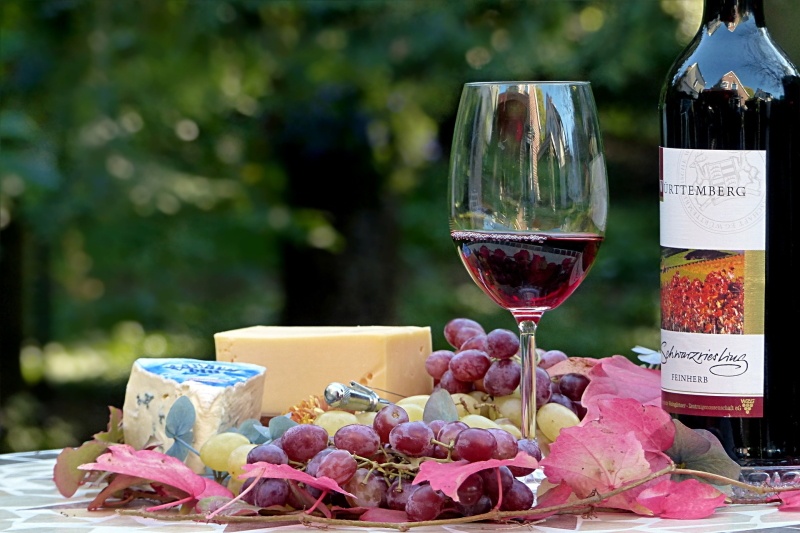
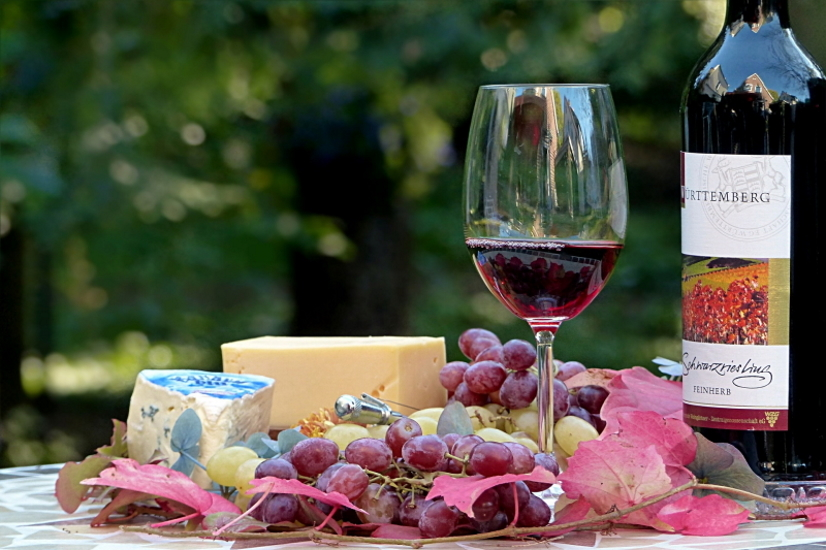
slider adaptive

diff --git a/client/src/Components/SalesSlider/SalesSlider.scss b/client/src/Components/SalesSlider/SalesSlider.scss
@@ -1,6 +1,9 @@
+@mixin mobile_bg {
+    background: rgba(0, 0, 0, 0.24);
+}
+
 .slider__wrapper {
     box-sizing: border-box;
-    min-height: 550px;
     width: 100%;
     overflow-x: hidden;
 }
@@ -10,6 +13,13 @@
     flex-direction: row;
     align-items: center;
     justify-content: space-between;
+    height: 550px;
+
+    &--pic {
+        @media screen and (min-width: 320px) and (max-width: 1200px) {
+            display: none;
+         }
+    }
 }
 
 .salesList__banner {
@@ -19,63 +29,217 @@
     background-size: cover;
     background-position: center;
     background-repeat: no-repeat;
-    min-height: 550px;    
+    min-height: 550px;
 }
-
+// 2 & 4 sales
 .banner__item {
     color: #fff;
     text-align: center;
-    text-shadow: rgb(117, 117, 117) 1px 0 10px;
-    
+    text-shadow: rgb(0, 0, 0) 10px 5px 7px;
+    @media screen and (min-width: 320px) and (max-width: 768px) {
+        @include mobile_bg;
+    }
+
     &--title {
         text-transform: uppercase;
         font-size: 38px;
         line-height: normal;
-        padding: 120px auto;
+        text-align: center;
+        padding: 10px;
+        @media screen and (min-width: 768px) and (max-width: 1200px) {
+            font-size: 22px;
+        }
+        @media screen and (min-width: 540px) and (max-width: 768px) {
+            font-size: 18px;
+        }
+        @media screen and (min-width: 320px) and (max-width: 540px) {
+            font-size: 16px;
+            text-wrap: wrap;
+        }   
     }
     &--text {
         max-width: calc(70% - (80px / 2));
-        margin: 30px auto 40px;
+        margin: 10px auto 40px;
         padding: 10px;
         line-height: 35px;
         font-size: 22px;
+        @media screen and (min-width: 768px) and (max-width: 1200px) {
+            font-size: 18px;
+        }
+        @media screen and (min-width: 540px) and (max-width: 768px) {
+            font-size: 14px;
+            max-width: calc(80% - 10px);
+            padding: 5px;
+            margin: 15px auto;
+        }
+        @media screen and (min-width: 320px) and (max-width: 540px) {
+            font-size: 12px;
+            max-width: calc(90% - 10px);
+            padding: 5px;
+            margin: 10px auto;
+        }
     }
 }
 
 .banner1 {
-    background-image: url('../../../public/pics/sales/wineShelf.jpg');
+    background: bottom no-repeat url("../../../public/pics/sales/whiteWine table.jpg");  
+    background-size: cover;
 }
 .banner2 {
     background-image: url('../../../public/pics/sales/bottles.jpg');
 }
+.adapt-pic-glass {
+    @media screen and (min-width: 320px) and (max-width: 1200px) {
+    background: center no-repeat url('../../../public/pics/sales/redWineGlass.jpg');
+    background-size: cover;
+    }
+}
+.intro-pic-red-wine {
+    @media screen and (min-width: 320px) and (max-width: 1200px) {
+    background: center no-repeat url('../../../public/pics/sales/red\ wine\ table.jpg');
+    background-size: cover;
+    } 
+}
 
 .sales__item {
+    display: flex;
+    justify-content: center;
+    align-items: center;
+    flex-direction: column;
     text-align: center;
     color: #000;
+    &:last-child {
+        padding-bottom: 10px;
+    }
+    @media screen and (min-width: 320px) and (max-width: 850px) {
+        @include mobile_bg;
+    } 
+
     &--title {
         text-transform: uppercase;
         font-size: 22px;
-        line-height: normal;
+        line-height: 30px;
+        margin-top: 15px;
+        @media screen and (min-width: 850px) and (max-width: 1200px) {
+            color: #fff;
+            font-size: 18px;
+        }    
+        @media screen and (min-width: 320px) and (max-width: 850px) {
+            font-size: 16px;
+            color: #fff;
+        }
     }
     &--text {
-        max-width: calc(80% - (50px / 2));
-        margin: 25px auto 40px;
+        margin: 0 50px 35px;
         padding: 10px;
-        line-height: 30px;
+        line-height: 35px;
         font-size: 18px;
-        
+        @media screen and (min-width: 1200px) and (max-width: 1410px) {
+        line-height: 20px;
+        }
+
+        @media screen and (min-width: 850px) and (max-width: 1200px) {
+            font-size: 16px;
+            color: #fff;
+        }
+        @media screen and (min-width: 568px) and (max-width: 850px) {
+            font-size: 14px;
+            color: #fff;
+        }
+        @media screen and (min-width: 320px) and (max-width: 568px) {
+            font-size: 12px;
+            line-height: 20px;
+            color: #fff;
+            margin: 0 25px 35px;
+
+        } 
     }
     &--time-limited {
         color: #ff1919;
         text-shadow: #a01c1c 1px 10px 10px;
         font-size: 20px;
         margin: 0 auto;
+        padding: 0;
         text-align: center;
+        @media screen and (min-width: 850px) and (max-width: 1200px) {
+            font-size: 16px;
+        }
+        @media screen and (min-width: 640px) and (max-width: 850px) {
+            font-size: 14px;
+        }
+
+    }
+    &--pic {
+        @media screen and (min-width: 320px) and (max-width: 1200px) {
+           display: none;
+        }
     }
 }
+
+.sales__item-glass {
+    text-align: center;
+    color: #000;
+    padding: 10px;
+    @media screen and (min-width: 320px) and (max-width: 850px) {
+        @include mobile_bg;
+    } 
+    &--time-limited {
+        color: #ff1919;
+        text-shadow: #a01c1c 1px 10px 10px;
+        font-size: 20px;
+        margin: 0 auto;
+        padding: 0;
+        text-align: center;
+        @media screen and (min-width: 850px) and (max-width: 1200px) {
+            font-size: 16px;
+        }
+        @media screen and (min-width: 640px) and (max-width: 850px) {
+            font-size: 14px;
+        }
+    }
+    &--text {
+        max-width: calc(70% - 40px);
+        margin: 10px auto;
+        padding: 10px;
+        line-height: 35px;
+        @media screen and (min-width: 568px) and (max-width: 1200px) {
+            font-size: 16px;
+        }
+        @media screen and (min-width: 320px) and (max-width: 568px) {
+            font-size: 14px;
+            line-height: 20px;
+            max-width: 100%;
+        } 
+    }
+}
+
+
+.sale2 {
+    display: flex;
+    flex-direction: column;
+    align-items: center;
+    justify-content: center;
+    height: 550px;
+    @media screen and (min-width: 1200px) {
+        flex-direction: row;
+    }
+
+    @media screen and (min-width: 850px) and (max-width: 1200px) {
+        font-size: 18px;
+        color: #000000;
+    }
+    @media screen and (min-width: 320px) and (max-width: 850px) {
+        font-size: 16px;
+        color: #000000;
+    }
+}
+
 
 // swiper navigation styled
 .swiper-button-prev::after,
 .swiper-button-next::after {
     color: #8a8585; 
+    @media screen and (max-width: 568px) {
+    display: none;  
+    } 
 }

diff --git a/client/src/Components/SalesSlider/SalesSlider.jsx b/client/src/Components/SalesSlider/SalesSlider.jsx
@@ -1,10 +1,9 @@
 /* eslint-disable react/jsx-boolean-value */
 /* eslint-disable import/no-unresolved */
-// import PropTypes from 'prop-types'
 import { Link } from 'react-router-dom'
 import { Swiper, SwiperSlide } from 'swiper/react'
 import { Autoplay, Scrollbar, Navigation } from 'swiper/modules'
-import Button from '../Button/Button'
+import Button from '../Button'
 import 'swiper/css'
 import 'swiper/css/navigation'
 import 'swiper/css/scrollbar'
@@ -15,9 +14,21 @@ function SalesSlider() {
     <section className="slider__wrapper">
       <Swiper
         spaceBetween={50}
+        slidesPerView={1}
         autoplay={{
           delay: 4000,
-          disableOnInteraction: false,
+          disableOnInteraction: true,
+        }}
+        breakpoints={{
+          320: {
+            spaceBetween: 20
+          },
+          480: {
+            spaceBetween: 30
+          },
+          640: {
+            spaceBetween: 40
+          }
         }}
         navigation={true}
         scrollbar={{
@@ -27,9 +38,9 @@ function SalesSlider() {
         className="sales_swiper"
       >
         <SwiperSlide>
-          <article className="salesList__container">
+          <article className="salesList__container sale1 intro-pic-red-wine">
             <img
-              className="salesList__container--pic sales__pic"
+              className="salesList__container--pic sales__pic slider__pic"
               alt="white wine for sale"
               src="./pics/sales/red wine table.jpg"
             />
@@ -61,17 +72,17 @@ function SalesSlider() {
           </article>
         </SwiperSlide>
         <SwiperSlide>
-          <article className="salesList__container">
-            <div className="salesList__container--item  salesList__banner--item sales__item">
-              <h3 className="sales__item--title">Special Offers for Wine Enthusiasts!</h3>
-              <p className="sales__item--text sales__item--time-limited">Limited-Time Offer!</p>
-              <p className="sales__item--text">
+          <article className="sale2 adapt-pic-glass">
+            <div className="salesList__container--item  salesList__banner--item sales__item-glass">
+              <h3 className="sales__item-glass--title">Special Offers for Wine Enthusiasts!</h3>
+              <p className="sales__item-glass--text sales__item-glass--time-limited">Limited-Time Offer!</p>
+              <p className="sales__item-glass--text">
                 Don&apos;t let this incredible opportunity pass you by! Upgrade your wine-drinking experience or
                 surprise a loved one with the gift of elegance. Head over to our website or visit our store to explore
                 our stunning collection of wine glasses.
               </p>
             </div>
-            <img className="sales__item" alt="white wine for sale" src="./pics/sales/redWineGlass.jpg" />
+            <img className="sales__item--pic slider__pic" alt="white wine for sale" src="./pics/sales/redWineGlass.jpg" />
           </article>
         </SwiperSlide>
         <SwiperSlide>
@@ -86,6 +97,7 @@ function SalesSlider() {
             </div>
           </article>
         </SwiperSlide>
+        
       </Swiper>
     </section>
   )

diff --git a/client/src/Components/Button/Button.scss b/client/src/Components/Button/Button.scss
@@ -16,4 +16,14 @@
 .buttonDark {
     background-color: #000;
     color: #fff;
+        &:hover {
+        background-color: #fff;
+        color: #000;
+        transition: .2s linear;
+        cursor: pointer;
+        }
+    @media screen and (min-width:320px) and (max-width:768px) {
+        padding: 15px 25px;
+        font-size: 12px;        
+    }
 }
